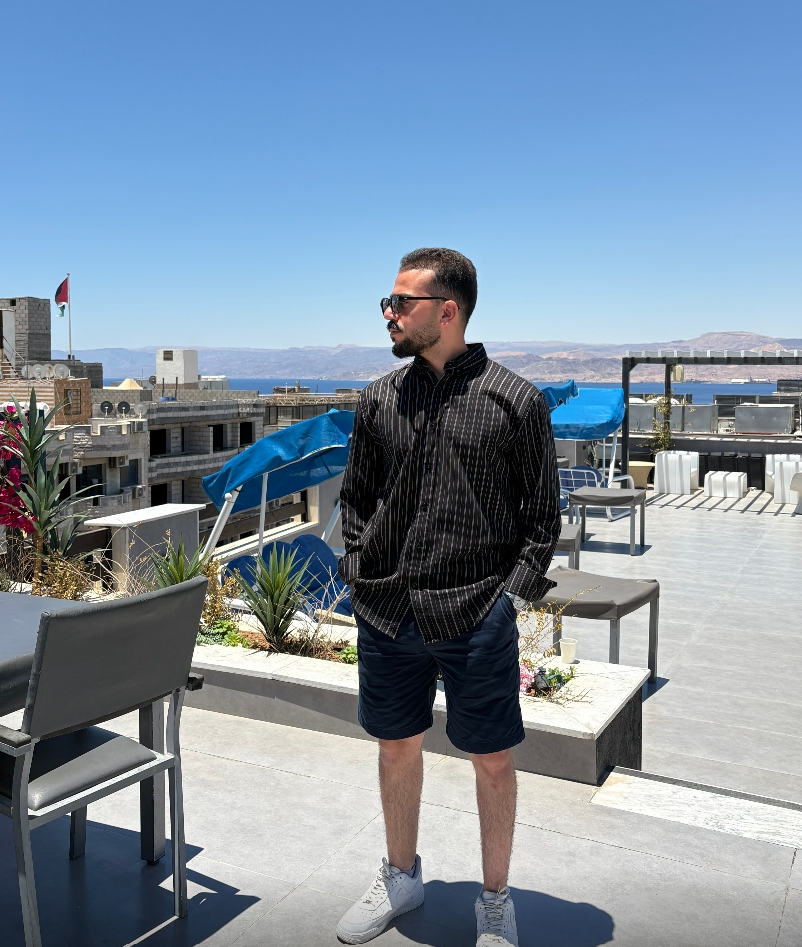
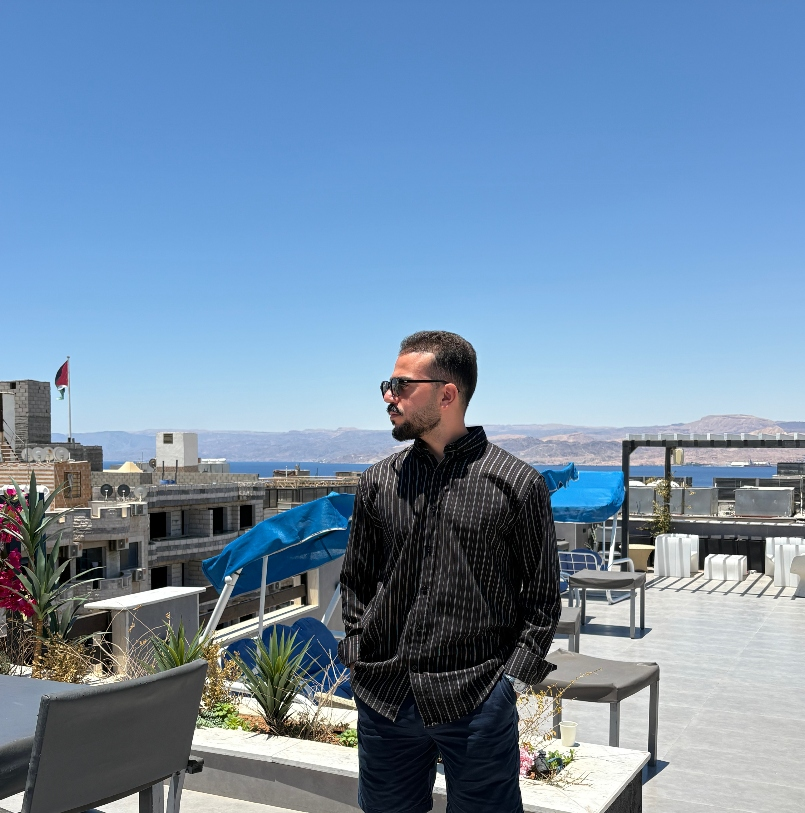
feat: replace Motasem's profile picture and bump team image version

diff --git a/main.js b/main.js
@@ -711,7 +711,7 @@ async function renderAbout() {
                 ${allMembers.map(member => `
                     <div class="about-carousel-card">
                       <div class="carousel-card-avatar">
-                        <img src="${member.image}?v=6.1.0" alt="${member.name}" onerror="this.src='/assets/logos/cne-icon.png'">
+                        <img src="${member.image}?v=6.1.1" alt="${member.name}" onerror="this.src='/assets/logos/cne-icon.png'">
                       </div>
                       <div class="carousel-card-info">
                         <strong>${member.name}</strong>
